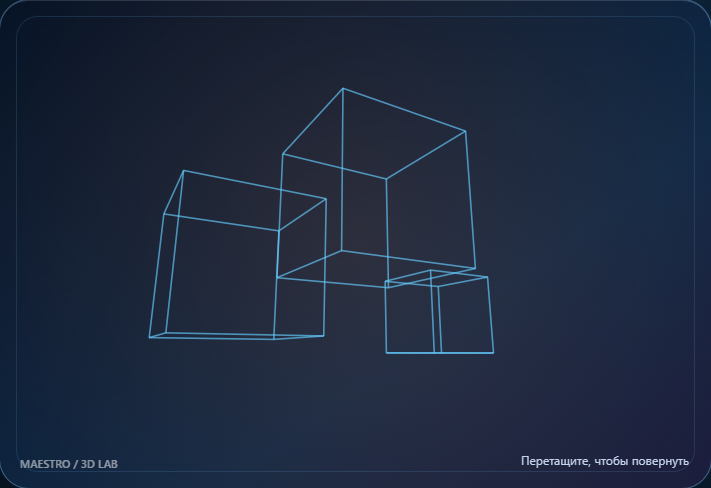
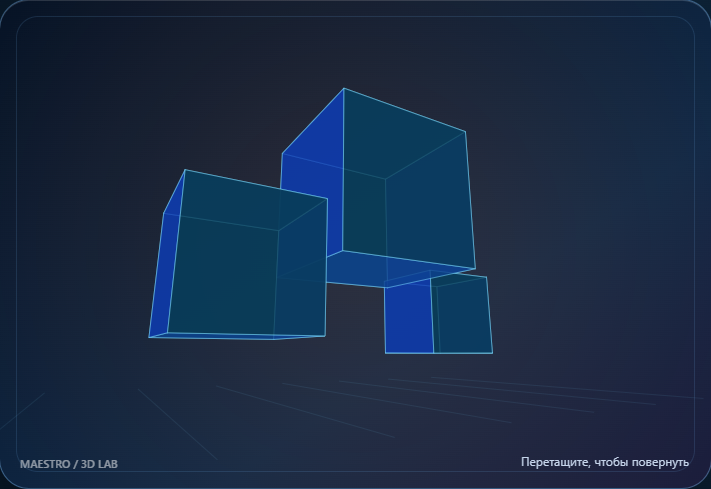
Add shaded 3D scenes and unobstructed mobile interaction

Changed region(s): [[0.1857, 0.1844, 0.7117, 0.7377], [0.0, 0.9221, 0.9902, 1.0], [0.9902, 0.9529, 1.0, 0.9836]]

diff --git a/maestro/assets/scene3d.js b/maestro/assets/scene3d.js
@@ -5,7 +5,7 @@
   if (!ctx) return;
   const buttons = [...document.querySelectorAll('[data-scene]')];
   const reduced = matchMedia('(prefers-reduced-motion: reduce)');
-  let mode = 'object', angle = .5, tilt = -.25, dragging = false, lastX = 0, lastY = 0, frame = 0;
+  let mode = 'object', angle = .5, tilt = -.25, dragging = false, lastX = 0, lastY = 0, frame = 0, visible = true;
   const colors = {object:'#ff8c3d', space:'#65ccff', data:'#9b83ff'};
   const project = (p, w, h) => {
     const ca=Math.cos(angle), sa=Math.sin(angle), ct=Math.cos(tilt), st=Math.sin(tilt);
@@ -15,6 +15,7 @@
     return [w/2+x*scale, h/2+y*scale, scale, depth];
   };
   function line(a,b,color,alpha=1,width=1){ctx.globalAlpha=alpha;ctx.strokeStyle=color;ctx.lineWidth=width;ctx.beginPath();ctx.moveTo(a[0],a[1]);ctx.lineTo(b[0],b[1]);ctx.stroke();ctx.globalAlpha=1;}
+  function poly(points,fill,stroke){ctx.beginPath();ctx.moveTo(points[0][0],points[0][1]);for(let i=1;i<points.length;i++)ctx.lineTo(points[i][0],points[i][1]);ctx.closePath();ctx.fillStyle=fill;ctx.fill();ctx.strokeStyle=stroke;ctx.lineWidth=.7;ctx.stroke()}
   function draw(){
     const dpr=Math.min(devicePixelRatio||1,2), w=canvas.clientWidth, h=canvas.clientHeight;
     if (!w || !h) return;
@@ -24,26 +25,34 @@
     const glow=ctx.createRadialGradient(w*.5,h*.5,5,w*.5,h*.5,w*.58);glow.addColorStop(0,'rgba(255,115,42,.13)');glow.addColorStop(1,'rgba(255,115,42,0)');ctx.fillStyle=glow;ctx.fillRect(0,0,w,h);
     const s=Math.min(w/570,h/400,1.15), P=p=>project(p.map(v=>v*s),w,h), color=colors[mode];
     if(mode==='object'){
-      const rings=22, segments=34, rows=[];
+      const rings=24, segments=26, rows=[], faces=[];
       for(let i=0;i<rings;i++){let row=[];let u=i*2*Math.PI/rings;for(let j=0;j<segments;j++){let v=j*2*Math.PI/segments,R=116+39*Math.cos(v);row.push(P([R*Math.cos(u),39*Math.sin(v),R*Math.sin(u)]));}rows.push(row)}
-      for(let i=0;i<rings;i++)for(let j=0;j<segments;j++){const a=rows[i][j];line(a,rows[(i+1)%rings][j],color,.19+.34*a[2],1.05);line(a,rows[i][(j+1)%segments],color,.14+.25*a[2],.8)}
+      for(let i=0;i<rings;i++)for(let j=0;j<segments;j++){const u=i*2*Math.PI/rings,v=j*2*Math.PI/segments;const pts=[rows[i][j],rows[(i+1)%rings][j],rows[(i+1)%rings][(j+1)%segments],rows[i][(j+1)%segments]];const depth=pts.reduce((n,p)=>n+p[3],0)/4;const lit=Math.max(0,Math.cos(u-angle)*Math.cos(v)*.42+Math.sin(v)*.48+.5);faces.push({pts,depth,fill:`hsl(${24+lit*15} 90% ${17+lit*31}%)`})}
+      faces.sort((a,b)=>b.depth-a.depth).forEach(f=>poly(f.pts,f.fill,'rgba(255,177,104,.14)'));
+      for(let i=0;i<rings;i+=3)for(let j=0;j<segments;j++)line(rows[i][j],rows[i][(j+1)%segments],'#ffd298',.22,.6);
     }else if(mode==='space'){
       const cubes=[[-105,35,-15,92], [15,-38,0,125], [110,55,25,74]];
-      for(const [cx,cy,cz,size] of cubes){const q=size/2,pts=[[-q,-q,-q],[q,-q,-q],[q,q,-q],[-q,q,-q],[-q,-q,q],[q,-q,q],[q,q,q],[-q,q,q]].map(v=>P([v[0]+cx,v[1]+cy,v[2]+cz]));for(const [a,b] of [[0,1],[1,2],[2,3],[3,0],[4,5],[5,6],[6,7],[7,4],[0,4],[1,5],[2,6],[3,7]])line(pts[a],pts[b],color,.65,1.6);}
+      const facets=[];for(const [cx,cy,cz,size] of cubes){const q=size/2,pts=[[-q,-q,-q],[q,-q,-q],[q,q,-q],[-q,q,-q],[-q,-q,q],[q,-q,q],[q,q,q],[-q,q,q]].map(v=>P([v[0]+cx,v[1]+cy,v[2]+cz]));for(const [index,face] of [[0,[0,1,2,3]],[1,[4,5,6,7]],[2,[0,1,5,4]],[3,[2,3,7,6]],[4,[1,2,6,5]],[5,[0,3,7,4]]]){const corners=face.map(n=>pts[n]);facets.push({corners,depth:corners.reduce((n,p)=>n+p[3],0)/4,index})}}
+      facets.sort((a,b)=>b.depth-a.depth).forEach(f=>poly(f.corners,`hsla(${200+f.index*5} 84% ${18+f.index*4}% / .78)`,'rgba(123,220,255,.7)'));
+      for(let i=0;i<7;i++){const a=P([-215+i*72,125,-150]),b=P([-215+i*72,125,160]);line(a,b,'#68bbdf',.13,.8)}
     }else{
       const curves=[[],[],[]];for(let i=0;i<95;i++){let t=i/94, y=(t-.5)*290;for(let k=0;k<3;k++){let a=t*Math.PI*7+k*2*Math.PI/3;curves[k].push(P([Math.cos(a)*95,y,Math.sin(a)*95]))}}
-      for(const curve of curves)for(let i=1;i<curve.length;i++)line(curve[i-1],curve[i],color,.22+.4*curve[i][2],1.7);
-      for(let i=0;i<95;i+=6)line(curves[0][i],curves[1][i],color,.22,1);
+      const shades=['#a98aff','#ff9852','#57d9ff'];for(const [k,curve] of curves.entries())for(let i=1;i<curve.length;i++){line(curve[i-1],curve[i],shades[k],.24,7);line(curve[i-1],curve[i],shades[k],.83,2.3)}
+      for(let i=0;i<95;i+=6){line(curves[0][i],curves[1][i],color,.28,1);for(let k=0;k<3;k++){const p=curves[k][i];ctx.beginPath();ctx.arc(p[0],p[1],2.5+p[2],0,Math.PI*2);ctx.fillStyle=shades[k];ctx.fill()}}
     }
     ctx.font='600 11px system-ui';ctx.fillStyle='rgba(255,255,255,.52)';ctx.fillText('MAESTRO / 3D LAB',20,h-20);
-    if(!reduced.matches&&!dragging){angle+=.0025;frame=requestAnimationFrame(draw)}
+    if(!reduced.matches&&!dragging&&visible&&!document.hidden){angle+=.0025;frame=requestAnimationFrame(draw)}
   }
   function select(next){mode=next;buttons.forEach(b=>{const active=b.dataset.scene===next;b.setAttribute('aria-pressed',String(active));b.classList.toggle('active',active)});cancelAnimationFrame(frame);draw()}
   buttons.forEach(b=>b.addEventListener('click',()=>select(b.dataset.scene)));
   canvas.addEventListener('pointerdown',e=>{dragging=true;lastX=e.clientX;lastY=e.clientY;canvas.setPointerCapture(e.pointerId);cancelAnimationFrame(frame)});
   canvas.addEventListener('pointermove',e=>{if(!dragging)return;angle+=(e.clientX-lastX)*.008;tilt=Math.max(-1.1,Math.min(1.1,tilt+(e.clientY-lastY)*.006));lastX=e.clientX;lastY=e.clientY;draw()});
-  canvas.addEventListener('pointerup',()=>{dragging=false;draw()});
+  const release=()=>{dragging=false;cancelAnimationFrame(frame);draw()};
+  canvas.addEventListener('pointerup',release);
+  canvas.addEventListener('pointercancel',release);
   addEventListener('resize',()=>{cancelAnimationFrame(frame);draw()});
   reduced.addEventListener?.('change',()=>{cancelAnimationFrame(frame);draw()});
+  if('IntersectionObserver' in window){new IntersectionObserver(entries=>{const entry=entries[0];visible=entry.isIntersecting;document.body.classList.toggle('viewing-3d',entry.intersectionRatio>.45);cancelAnimationFrame(frame);if(visible)draw()},{threshold:[0,.45]}).observe(canvas)}
+  document.addEventListener('visibilitychange',()=>{cancelAnimationFrame(frame);if(!document.hidden&&visible)draw()});
   draw();
 })();

diff --git a/maestro/index.html b/maestro/index.html
@@ -22,7 +22,7 @@ body{background:#fffaf4;color:var(--text)}.hero{background:radial-gradient(circl
 .hero-photo{margin:0;position:relative;border-radius:32px;overflow:hidden;box-shadow:0 32px 85px rgba(0,0,0,.35);border:1px solid rgba(255,255,255,.25);transform:rotate(1.5deg)}.hero-photo img{width:100%;height:560px;display:block;object-fit:cover;object-position:center}.hero-photo figcaption{position:absolute;left:18px;bottom:18px;background:rgba(15,25,51,.9);color:#fff;padding:9px 14px;border-radius:999px;font-size:12px;letter-spacing:.06em}.band{background:#ebf3ff;border-color:#d5e2fa}.card,.price,.doc,.step{background:#fff;box-shadow:0 10px 30px rgba(18,33,74,.05)}.card p,.price ul,.doc p,.step span{color:#485671}.card:nth-child(3n+1){border-top:5px solid #ff6a24}.card:nth-child(3n+2){border-top:5px solid #5764e8}.card:nth-child(3n){border-top:5px solid #24a391}.card.big{background:#fff4e9}.tag{color:#33415d}.mini,.consent a{color:#c84c1a}.price.featured{border-color:#ff6a24}.money{color:#d6541d}.form{background:#fff;border-color:#d4dbea}.field label{color:#24324c}.field input,.field select,.field textarea{background:#f7f9ff;color:#17213b;border-color:#ccd5e6}.result{color:#14583f}.doc b{color:#17213b}.doc .mini{color:#c84c1a}footer{background:#111c3d;color:#d9e1f7}footer .legal-links a{color:#fff}.mobilecta{background:rgba(16,26,54,.94)}
 .palette{display:grid;grid-template-columns:repeat(4,1fr);gap:12px;margin:32px 0 0}.palette article{min-height:170px;border-radius:22px;padding:20px;display:flex;flex-direction:column;justify-content:space-between;color:#fff;transition:transform .25s ease}.palette article:hover{transform:translateY(-7px)}.palette article:nth-child(1){background:#ec602a}.palette article:nth-child(2){background:#3458d4}.palette article:nth-child(3){background:#178f7b}.palette article:nth-child(4){background:#813d9d}.palette strong{font-size:23px;line-height:1.12}.palette span{font-size:12px;max-width:25ch}.card,.doc{transition:transform .25s ease,box-shadow .25s ease}.card:hover,.doc:hover{transform:translateY(-5px);box-shadow:0 18px 40px rgba(18,33,74,.12)}@media(max-width:980px){.links{background:#172554}.hero-photo img{height:430px}.palette{grid-template-columns:1fr 1fr}}@media(max-width:640px){.hero-photo{transform:none}.hero-photo img{height:320px}.palette{grid-template-columns:1fr 1fr}.palette article{min-height:150px;padding:15px}.palette strong{font-size:18px}}@media(prefers-reduced-motion:reduce){html{scroll-behavior:auto}.card,.doc,.palette article{transition:none}}
 </style>
-<link rel="stylesheet" href="assets/maestro-v2.css?v=visual-v4">
+<link rel="stylesheet" href="assets/maestro-v2.css?v=visual-v5">
 </head>
 <body>
 <header><div class="wrap nav"><a class="brand" href="#top"><span class="mark">М</span>МАЭСТРО</a><nav class="links" id="links"><a href="#solutions">Решения</a><a href="#products">Можно отдельно</a><a href="#process">Как работаем</a><a href="#pricing">Тарифы</a><a href="agency.html">Агентство</a><a href="#three-d">3D</a><a href="#portfolio">Портфолио</a><a href="#documents">Документы</a><a href="#lead">Связаться</a></nav><button class="menu" id="menu">☰</button></div></header>
@@ -46,5 +46,5 @@ const interest=document.getElementById('interest');document.querySelectorAll('[d
 async function cp(t){try{await navigator.clipboard.writeText(t);return true}catch(e){return false}}
 document.getElementById('leadForm').addEventListener('submit',async e=>{e.preventDefault();if(!document.getElementById('agree').checked)return;const value=id=>document.getElementById(id).value.trim();const text=`Заявка — Maestro Business\nИмя: ${value('name')}\nКонтакт: ${value('contact')}\nИнтерес: ${value('interest')}\nБизнес: ${value('business')}\nЧто уже есть / откуда заявки: ${value('channels')}`;const ok=await cp(text);const r=document.getElementById('result');r.textContent=(ok?'Заявка скопирована. ':'Скопируйте заявку вручную. ')+'Отправьте её в переписку, из которой получили ссылку.\n\n'+text;r.classList.add('show');});
 </script>
-<script src="assets/scene3d.js" defer></script>
+<script src="assets/scene3d.js?v=solid-v2" defer></script>
 </body></html>

diff --git a/maestro/assets/maestro-v2.css b/maestro/assets/maestro-v2.css
@@ -75,3 +75,4 @@ footer{background:#030913;color:#b4c1d8;border-color:rgba(173,196,225,.2)}
 #portfolio .card.portfolio-leads>span:first-child{color:#65ead8!important}
 #portfolio .card.portfolio-leads .tag{color:#e3faf7}
 #portfolio .card.big.portfolio-photo>span:first-child{color:#ffbd84!important;text-shadow:0 2px 8px #030b18}
+@media(max-width:640px){body.viewing-3d .mobilecta,body.viewing-3d .maestro-genie-launcher{visibility:hidden;pointer-events:none}}
